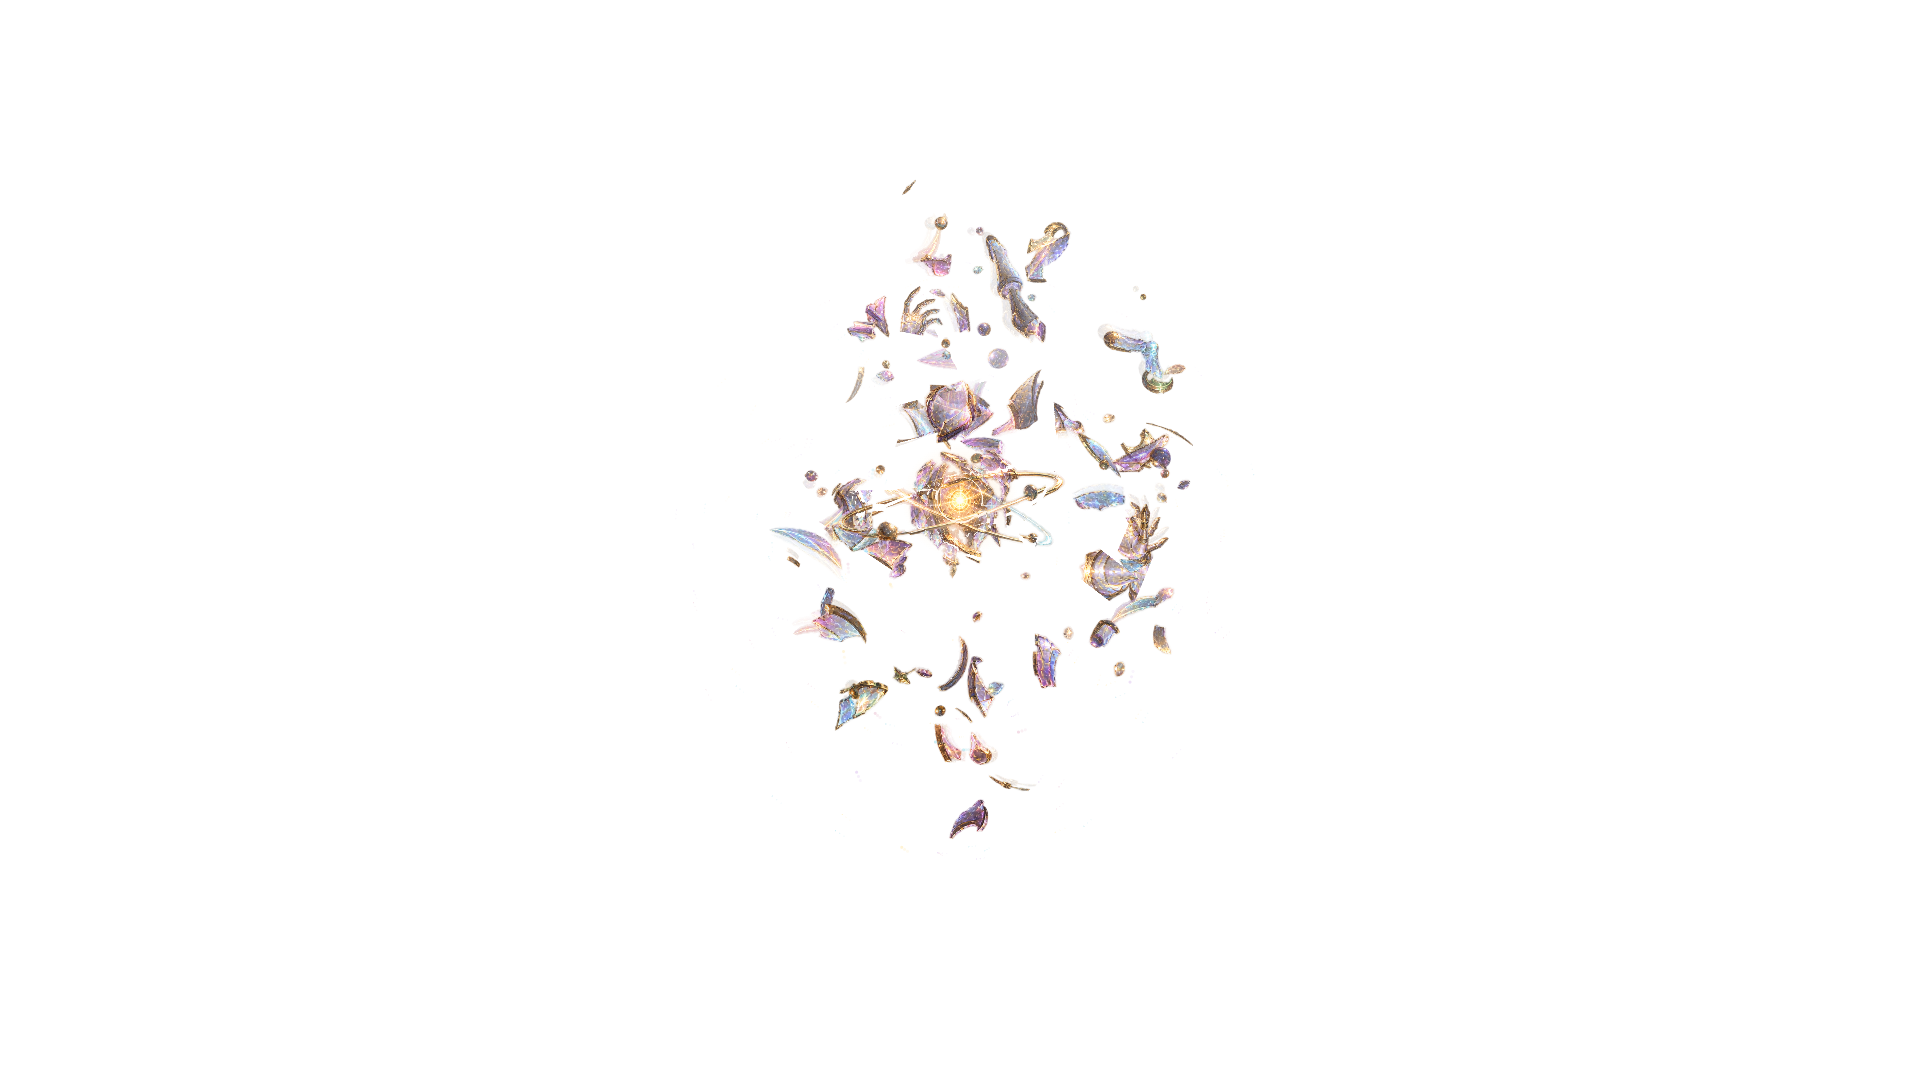
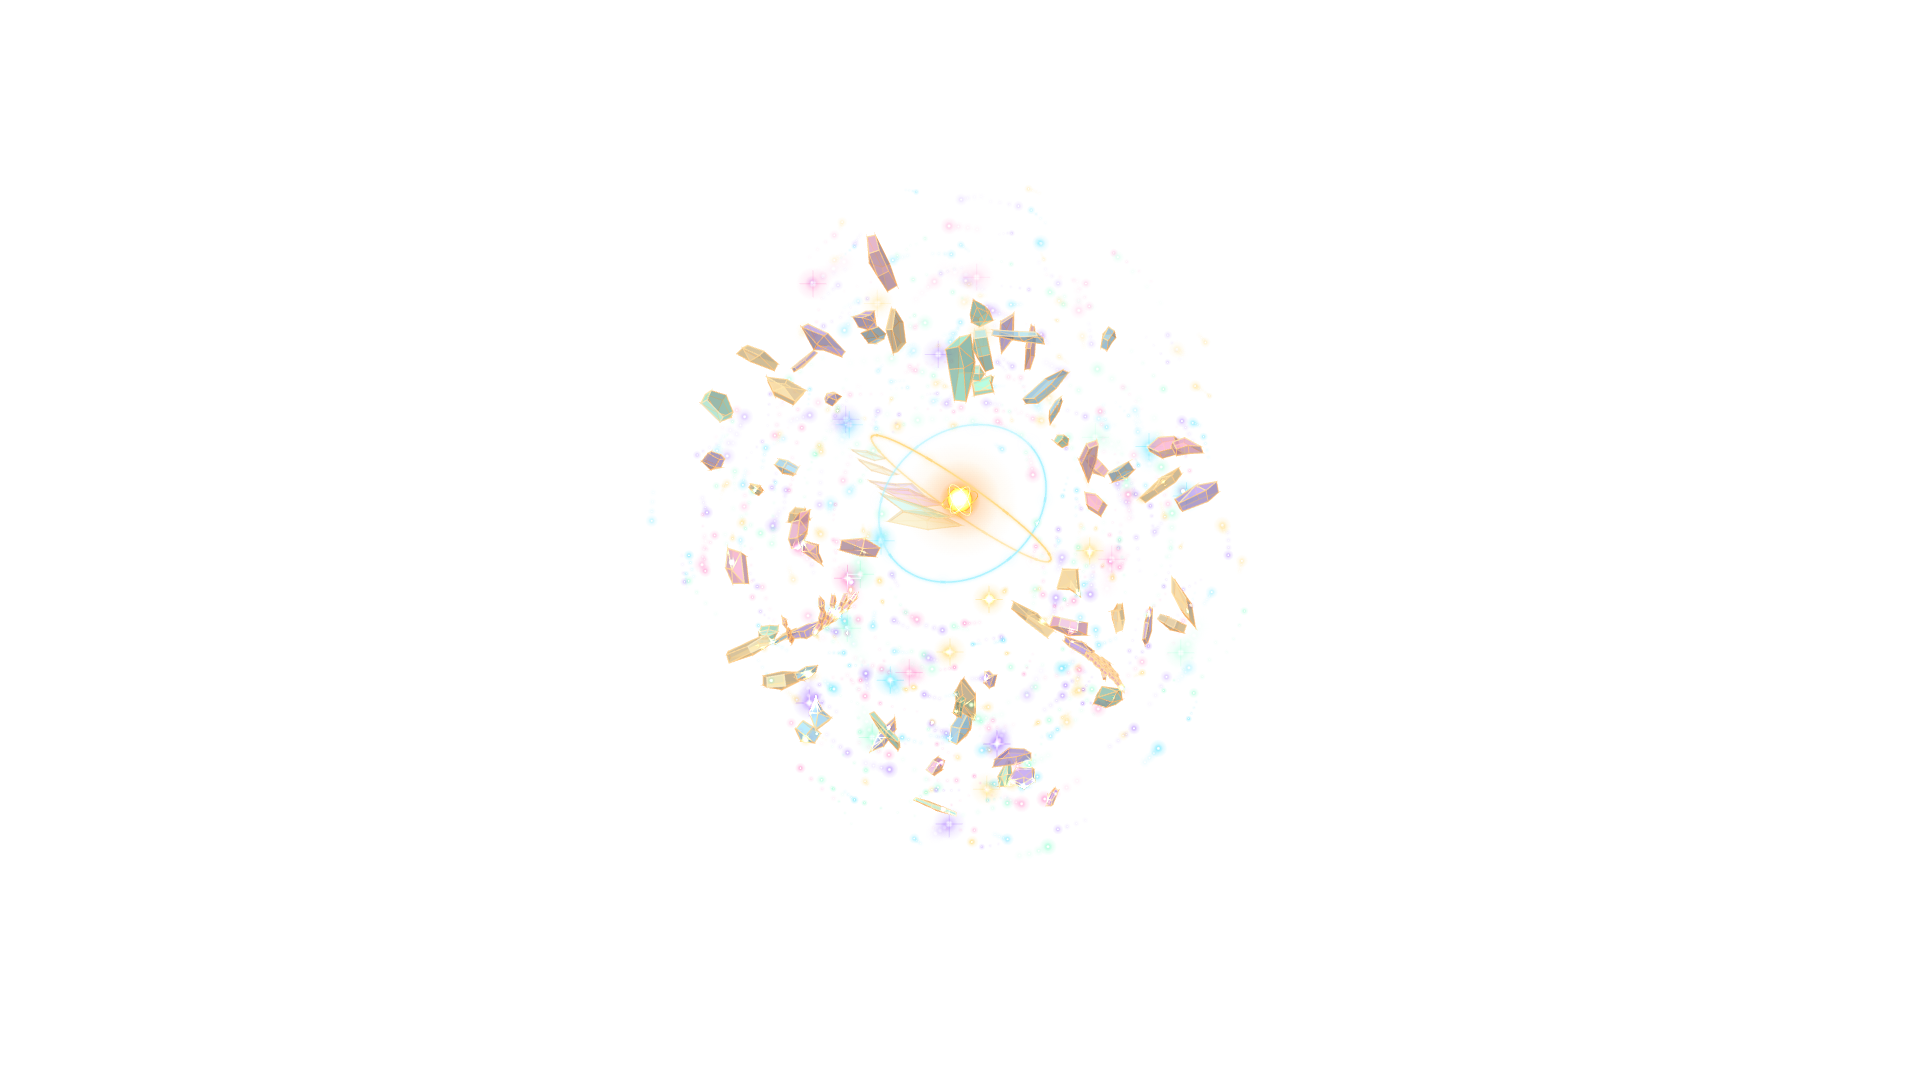
Animate independent volumetric Aru shards, hands, wings and rings

Changed region(s): [[0.3438, 0.1833, 0.6562, 0.7944]]

diff --git a/site/previews/aru/chamber/motion.js b/site/previews/aru/chamber/motion.js
@@ -1,48 +1,40 @@
+import {livingLayers,drawLivingLayer,drawLivingHeart} from './living-parts.js?v=1';
 const canvas=document.querySelector('#scene'),ctx=canvas.getContext('2d');
 const status=document.querySelector('#status'),play=document.querySelector('#play');
 const TAU=Math.PI*2,DURATION=12,W=1920,H=1080,CX=960,CY=500,SCALE=.40;
 let chamberMode=new URLSearchParams(location.search).get('view')==='chamber';
-let running=true,started=performance.now(),frozen=0,ready=false,parts=[];
+let running=true,started=performance.now(),frozen=0,ready=false;
 function loadImage(src){return new Promise((resolve,reject)=>{const i=new Image();i.onload=()=>resolve(i);i.onerror=reject;i.src=src;});}
-const [background,source,manifest]=await Promise.all([loadImage('chamber-background.png'),loadImage('../chapel-motion/aru-chapel-character.png'),fetch('../chapel-motion/parts.json').then(r=>{if(!r.ok)throw Error('Part masks unavailable');return r.json();})]);
-for(const [i,p] of manifest.parts.entries()){
- const [x,y,w,h]=p.bounds,sprite=document.createElement('canvas');sprite.width=w;sprite.height=h;const s=sprite.getContext('2d');
- s.beginPath();for(const [yy,xx,n] of p.runs)s.rect(xx,yy,n,1);s.clip();s.drawImage(source,x,y,w,h,0,0,w,h);
- const dx=p.center[0]-570,dy=p.center[1]-620;
- parts.push({...p,sprite,index:i,phase:Math.atan2(dy/1.35,dx),radius:Math.max(145,Math.hypot(dx,dy/1.35))*SCALE});
+const background=await loadImage('chamber-background.png');
+// Cached glow sprites keep hundreds of translucent lights inexpensive on phones.
+const particleColors=['#ffe6a3','#8cecff','#c5a4ff','#ffacd9','#b2ffde'];
+const glowSprites=particleColors.map(color=>{const sprite=document.createElement('canvas');sprite.width=sprite.height=64;const g=sprite.getContext('2d'),light=g.createRadialGradient(32,32,0,32,32,32);light.addColorStop(0,'#ffffff');light.addColorStop(.08,'#ffffff');light.addColorStop(.22,color);light.addColorStop(.5,color+'65');light.addColorStop(1,color+'00');g.fillStyle=light;g.fillRect(0,0,64,64);return sprite;});
+const particles=Array.from({length:480},(_,i)=>({
+ phase:i*2.399963, speed:(i%2?-1:1)*(1+i%5),
+ rx:65+(i*37%230),ry:90+(i*47%245),tilt:.32*Math.sin(i*1.7),
+ size:i%19===0?17:i%7===0?9:3.5+(i%4),color:i%5,seed:i
+}));
+function particlePose(p,a){const theta=p.phase+a*p.speed+.13*Math.sin(a*3+p.seed),breath=1+.055*Math.sin(a*2+p.seed),x=Math.cos(theta)*p.rx*breath,y=Math.sin(theta)*p.ry*breath;
+ return{x:CX+x*Math.cos(p.tilt)-y*Math.sin(p.tilt),y:CY+25+x*Math.sin(p.tilt)+y*Math.cos(p.tilt)+10*Math.sin(a*4+p.seed),z:Math.sin(theta)};
 }
-function pose(p,t){const a=t/DURATION*TAU,i=p.index,baseX=CX+(p.center[0]-570)*SCALE,baseY=CY+(p.center[1]-620)*SCALE;
- if(p.role==='orbit'){
-  const speed=i%4===0?-1:1,theta=p.phase+a*speed,r=p.radius*(1+.045*Math.sin(a*2+i));
-  const glitch=((Math.floor(t/DURATION*96)+i*7)%71)<2;
-  return {x:CX+Math.cos(theta)*r+(glitch?5:0),y:CY+45+Math.sin(theta)*r*1.35,z:Math.sin(theta),angle:a*(i%2?2:-2)+i*.23,alpha:glitch?.45:.72+.22*(Math.sin(theta)+1)/2,scale:1+.10*Math.sin(theta)};
+function drawDust(c,t,front){const a=t/DURATION*TAU;c.save();c.globalCompositeOperation='lighter';
+ for(const p of particles){const v=particlePose(p,a);if((v.z>0)!==front)continue;
+ const pulse=.55+.45*(.5+.5*Math.sin(a*(2+p.seed%4)+p.seed)),alpha=(.45+.4*(v.z+1)/2)*pulse;
+ // Trails follow each particle's own direction and angular speed.
+ for(let lag=3;lag>=0;lag--){const q=lag?particlePose(p,a-lag*.012):v,size=p.size*(lag? .65:1);c.globalAlpha=alpha/(1+lag*1.7);c.drawImage(glowSprites[p.color],q.x-size,q.y-size,size*2,size*2);}
+ if(p.seed%19===0){c.globalAlpha=alpha*.65;c.strokeStyle=particleColors[p.color];c.lineWidth=1;c.beginPath();c.moveTo(v.x-p.size*.8,v.y);c.lineTo(v.x+p.size*.8,v.y);c.moveTo(v.x,v.y-p.size*.8);c.lineTo(v.x,v.y+p.size*.8);c.stroke();}
  }
- if(p.role==='head')return{x:baseX+Math.sin(a),y:baseY+Math.cos(a),z:0,angle:a,alpha:.92,scale:1};
- if(p.role==='wing'){
-  const pattern=[.35,2.1,4.7,7.2,9.6,11.2],wi=parts.filter(q=>q.role==='wing').findIndex(q=>q.id===p.id);
-  let alpha=0;for(let b=0;b<pattern.length;b++){let dt=t-pattern[b]-.10*(wi%2);if(dt>=0&&dt<.28&&((b+wi)%3!==0))alpha=Math.max(alpha,.75*(1-dt/.28));}
-  return{x:baseX+Math.sin(a),y:baseY+Math.cos(a),z:0,angle:.018*Math.sin(a+i),alpha,scale:1};
- }
- if(p.role==='ring')return{x:baseX+Math.sin(a),y:baseY+Math.cos(a),z:0,angle:.055*Math.sin(a+i),alpha:.85,scale:1};
- if(p.role==='heart')return{x:baseX+Math.sin(a),y:baseY+Math.cos(a),z:0,angle:.012*Math.sin(a),alpha:.90+.1*Math.sin(a*3),scale:1+.045*Math.sin(a*3)};
- return{x:baseX+Math.sin(a),y:baseY+Math.cos(a),z:0,angle:.025*Math.sin(a+i),alpha:((Math.floor(t*8)+i*9)%47<2)?.13:.77,scale:1};
-}
-function drawPart(c,p,v,mult=1){if(v.alpha<.01)return;c.save();c.globalAlpha=v.alpha*mult;c.translate(v.x,v.y);c.rotate(v.angle);c.scale(SCALE*v.scale,SCALE*v.scale);c.drawImage(p.sprite,-p.sprite.width/2,-p.sprite.height/2);c.restore();}
-function drawDust(c,t,front){const a=t/DURATION*TAU;const colors=['#ffe6a3','#99dce9','#d5b5eb','#e8b8cc'];
- for(let i=0;i<150;i++){const angle=a*(i%5?1:-1)+i*2.39996,z=Math.sin(angle);if((z>0)!==front)continue;const rx=80+(i*37%235),ry=100+(i*47%245);c.fillStyle=colors[i%4];for(let lag=2;lag>=0;lag--){const v=angle-lag*.018;c.globalAlpha=(.16+.32*(z+1)/2)/(lag+1);c.beginPath();c.arc(CX+Math.cos(v)*rx,CY+35+Math.sin(v)*ry,i%13===0?1.5:.65,0,TAU);c.fill();}}
- c.globalAlpha=1;
+ c.restore();
 }
 export function paint(target,t,width=1280,height=720){t=((t%DURATION)+DURATION)%DURATION;target.save();target.setTransform(width/W,0,0,height/H,0,0);target.clearRect(0,0,W,H);if(chamberMode)target.drawImage(background,0,0,W,H);
  const a=t/DURATION*TAU;if(chamberMode){target.save();target.translate(CX,895);target.scale(1,.13);let floor=target.createRadialGradient(0,0,0,0,0,110);floor.addColorStop(0,'rgba(255,195,91,.18)');floor.addColorStop(.5,'rgba(105,206,234,.06)');floor.addColorStop(1,'rgba(255,195,91,0)');target.fillStyle=floor;target.fillRect(-112,-112,224,224);target.restore();}
  target.save();if(chamberMode){target.translate(CX,CY);target.scale(.78,.78);target.translate(-CX,-CY);}
- const orbit=parts.filter(p=>p.role==='orbit').map(p=>({p,v:pose(p,t)})).sort((a,b)=>a.v.z-b.v.z);
+ const layers=livingLayers(t);
  drawDust(target,t,false);
- const drawMoving=o=>{if(o.p.index%3===0){let lag=pose(o.p,(t-.07+DURATION)%DURATION);drawPart(target,o.p,lag,.16);}drawPart(target,o.p,o.v);};
- orbit.filter(o=>o.v.z<0).forEach(drawMoving);
- for(const p of parts.filter(p=>!['orbit','heart'].includes(p.role)))drawPart(target,p,pose(p,t));
+ for(const layer of layers)if(layer.z<0)drawLivingLayer(target,layer);
  let light=target.createRadialGradient(CX,CY,0,CX,CY,58);light.addColorStop(0,'rgba(255,225,150,.38)');light.addColorStop(.35,'rgba(255,176,65,.13)');light.addColorStop(1,'rgba(255,176,65,0)');target.fillStyle=light;target.fillRect(CX-60,CY-60,120,120);
- for(const p of parts.filter(p=>p.role==='heart'))drawPart(target,p,pose(p,t));
- orbit.filter(o=>o.v.z>=0).forEach(drawMoving);drawDust(target,t,true);
+ drawLivingHeart(target,t);
+ for(const layer of layers)if(layer.z>=0)drawLivingLayer(target,layer);drawDust(target,t,true);
  target.restore();
  // Reflections sit IN FRONT of Aru so the character reads as inside the glass.
  if(chamberMode){target.save();target.globalCompositeOperation='screen';
@@ -52,7 +44,7 @@ export function paint(target,t,width=1280,height=720){t=((t%DURATION)+DURATION)%
 }
 function time(){return running?((performance.now()-started)/1000)%DURATION:frozen;}
 function tick(){if(ready&&running)paint(ctx,time(),canvas.width,canvas.height);requestAnimationFrame(tick);}
-ready=true;status.textContent=`${parts.length} separate layers · 12-second loop`;play.disabled=false;document.querySelector('#still').disabled=false;paint(ctx,0,canvas.width,canvas.height);tick();
+ready=true;status.textContent='Independent 3D shards · moving heart rings · articulated hands · 8 flickering wings · 480 lights';play.disabled=false;document.querySelector('#still').disabled=false;paint(ctx,0,canvas.width,canvas.height);tick();
 play.onclick=()=>{if(running){frozen=time();running=false;}else{started=performance.now()-frozen*1000;running=true;}play.textContent=running?'Pause animation':'Play animation';};
 function download(blob,name){const a=document.createElement('a');a.href=URL.createObjectURL(blob);a.download=name;a.click();setTimeout(()=>URL.revokeObjectURL(a.href),60000);}
 document.querySelector('#still').onclick=()=>{const c=document.createElement('canvas');c.width=1920;c.height=1080;paint(c.getContext('2d'),time(),1920,1080);c.toBlob(blob=>download(blob,chamberMode?'aru-inside-chamber.png':'aru-transparent-frame.png'),'image/png');};

diff --git a/site/previews/aru/chamber/living-parts.js b/site/previews/aru/chamber/living-parts.js
@@ -1,0 +1,46 @@
+// Independent volumetric parts. No fragment is cropped from the character image.
+const TAU=Math.PI*2;
+const colors=[[164,222,255],[207,174,255],[255,181,214],[173,255,224],[255,221,159]];
+const outlines=[[[0,-1],[.68,-.42],[.42,.42],[-.25,1],[-.68,.13]],[[.3,-1],[.75,-.6],[.45,.3],[-.65,1],[-.28,-.2]],[[0,-1],[.7,-.2],[.45,.8],[-.55,.5],[-.75,-.4]],[[.45,-1],[.7,.1],[0,1],[-.28,.1],[-.72,-.45]]];
+const frac=x=>x-Math.floor(x),rand=(seed,n)=>frac(Math.sin(seed*127.1+n*311.7)*43758.5453);
+function rotate(v,r){let [x,y,z]=v;let c=Math.cos(r[0]),s=Math.sin(r[0]);[y,z]=[y*c-z*s,y*s+z*c];c=Math.cos(r[1]);s=Math.sin(r[1]);[x,z]=[x*c+z*s,-x*s+z*c];c=Math.cos(r[2]);s=Math.sin(r[2]);return[x*c-y*s,x*s+y*c,z];}
+function add(a,b){return a.map((v,i)=>v+b[i]);}
+function makeShard(seed,length,width,depth){const shape=outlines[seed%outlines.length],n=shape.length;const vertices=shape.map(([x,y],i)=>[x*width*(.8+rand(seed,i)*.4),y*length/2,depth*(.35+rand(seed,i+9)*.2)]);vertices.push(...vertices.map(([x,y,z])=>[x*.86,y*.94,-z]));vertices.push([width*.08,-length*.07,depth*.95]);const faces=[];for(let i=0;i<n;i++){faces.push([i,(i+1)%n,n*2]);faces.push([i,n+i,n+(i+1)%n,(i+1)%n]);}faces.push(Array.from({length:n},(_,i)=>n+i).reverse());return{vertices,faces,color:colors[seed%colors.length]};}
+const shards=Array.from({length:62},(_,i)=>({mesh:makeShard(i+1,12+rand(i,2)*48,5+rand(i,3)*18,3+rand(i,4)*10),phase:i*2.399963,speed:(i%2?-1:1)*(1+i%3),radius:100+rand(i,5)*165,height:140+rand(i,6)*165,seed:i}));
+const featherMeshes=Array.from({length:8},(_,i)=>Array.from({length:7},(_,j)=>makeShard(100+i*7+j,38+j*8,7+j*1.1,3)));
+const palm=makeShard(91,40,22,7),finger=makeShard(92,17,5,4),forearm=makeShard(94,65,18,9);
+const head=makeShard(103,70,31,16);
+function normal(vertices,face){const a=vertices[face[0]],b=vertices[face[1]],c=vertices[face[2]],u=b.map((v,i)=>v-a[i]),v=c.map((x,i)=>x-a[i]);const n=[u[1]*v[2]-u[2]*v[1],u[2]*v[0]-u[0]*v[2],u[0]*v[1]-u[1]*v[0]],m=Math.hypot(...n)||1;return n.map(x=>x/m);}
+function meshItem(mesh,center,rotation,alpha=1,scale=1){return{mesh,center,rotation,alpha,scale,z:center[2]};}
+function drawMesh(c,item){const {mesh,center,rotation,alpha,scale}=item,vertices=mesh.vertices.map(v=>add((item.parentRotation?rotate(rotate(v.map(x=>x*scale),rotation),item.parentRotation):rotate(v.map(x=>x*scale),rotation)),center)),project=v=>{const k=900/(900-v[2]);return[960+v[0]*k,500+v[1]*k];};
+ const faces=mesh.faces.map(f=>({f,z:f.reduce((sum,i)=>sum+vertices[i][2],0)/f.length})).sort((a,b)=>a.z-b.z);
+ c.save();for(const {f}of faces){const n=normal(vertices,f),light=Math.abs(n[0]*-.35+n[1]*-.6+n[2]*.72),shine=Math.pow(Math.max(0,n[2]*.9-n[1]*.3),12),rgb=mesh.color.map(v=>Math.min(255,Math.round(v*(.35+.65*light)+shine*100)));c.beginPath();for(let j=0;j<f.length;j++){const p=project(vertices[f[j]]);j?c.lineTo(...p):c.moveTo(...p);}c.closePath();c.fillStyle=`rgba(${rgb.join(',')},${alpha*(.38+.35*light)})`;c.fill();c.strokeStyle=`rgba(255,${Math.round(166+light*72)},${Math.round(88+light*95)},${alpha*.85})`;c.lineWidth=.7+light*.65;c.stroke();if(shine>.3){c.strokeStyle=`rgba(235,251,255,${alpha*shine*.8})`;c.lineWidth=1.4;c.stroke();}}
+ c.restore();
+}
+function handItems(t,side){const a=t/12*TAU,root=[side*(125+25*Math.sin(a*2+side)),120+35*Math.sin(a+side),40*Math.sin(a*2+side)],rotation=[a*(side===1?1:-2)+.4,a*(side===1?-2:1),side*.6+.35*Math.sin(a*3)],out=[];
+ const place=(mesh,local,r,scale=1)=>out.push({...meshItem(mesh,add(root,rotate(local,rotation)),r,.9,scale),parentRotation:rotation});
+ place(palm,[0,0,0],[0,0,0]);place(forearm,[0,70,0],[.15*Math.sin(a*2),0,0]);
+ // Each digit has three independently positioned phalanges; curl changes their joint angles.
+ for(let f=0;f<5;f++){const thumb=f===0,base=[thumb?-24:-15+(f-1)*10,thumb?0:-20,0],spread=(f-2)*.13+(thumb?-.65:0),curl=.15+(.5+.5*Math.sin(a*(side===1?2:3)+f*.3+side))*1.55;let joint=base;
+  for(let j=0;j<3;j++){const bend=curl*(.5+j*.33),dir=rotate([0,-(thumb?11:15-j*2),0],[bend,0,spread]),mid=joint.map((x,k)=>x+dir[k]/2);place(finger,mid,[bend,0,spread],thumb?.66:1-j*.1);joint=add(joint,dir);}
+ }
+ return out;
+}
+function wingItems(t){const a=t/12*TAU,out=[];for(let w=0;w<8;w++){
+ const cycle=(t+(w*1.713))%[3,4,2,6][w%4],burst=cycle<.46?Math.sin(cycle/.46*Math.PI):0;if(!burst)continue;
+ const direction=w*TAU/8+.2,extent=135,root=[Math.cos(direction)*extent,Math.sin(direction)*extent, -60],rotation=[.35*Math.sin(a*2+w),.5*Math.sin(a+w),direction+Math.PI/2];
+ for(let j=0;j<7;j++){if((Math.floor(t*13)+w+j)%7===0)continue;const offset=rotate([(j-3)*11,-28-j*13,8*Math.sin(a*3+j)],rotation),breakoff=j>3?1+.07*Math.sin(a*4+j):1;out.push(meshItem(featherMeshes[w][j],add(root,offset.map(x=>x*breakoff)),rotation.map((v,k)=>v+(j>3?.08*Math.sin(a*3+j+k):0)),burst*(.33+j*.055)));}
+ }return out;
+}
+function ringSegments(t){const a=t/12*TAU,out=[];for(let ring=0;ring<2;ring++){
+ const rotation=[.55+a*(ring? -1:1),a*(ring?2:-1)+.8,ring?-.65:.55],radius=ring?89:108;
+ for(let j=0;j<96;j++){const points=[j,j+1].map(k=>rotate([Math.cos(k*TAU/96)*radius,Math.sin(k*TAU/96)*radius,0],rotation));out.push({ring:true,points,z:(points[0][2]+points[1][2])/2,color:ring?'#aaf2ff':'#ffda86',bright:j%12===0});}
+ }return out;
+}
+export function livingLayers(t){const a=t/12*TAU,items=shards.map(p=>{const angle=p.phase+a*p.speed+.13*Math.sin(a*3+p.seed);return meshItem(p.mesh,[Math.cos(angle)*p.radius,25+Math.sin(angle)*p.height,55*Math.sin(angle+p.seed*.3)],[a*(1+p.seed%3),a*(p.seed%2?-2:3)+p.phase,a*(p.seed%3-1)+p.phase],.85);});
+ items.push(...handItems(t,-1),...handItems(t,1),...wingItems(t),meshItem(head,[0,-135+2*Math.sin(a),0],[.12*Math.sin(a*2),a,.08*Math.sin(a)],.9),...ringSegments(t));return items.sort((a,b)=>a.z-b.z);
+}
+export function drawLivingLayer(c,item){if(!item.ring){drawMesh(c,item);return;}c.save();const project=v=>[960+v[0]*900/(900-v[2]),500+v[1]*900/(900-v[2])];c.strokeStyle=item.color;c.globalAlpha=item.z<0?.52:.94;c.lineWidth=item.bright?2.6:1.5;c.shadowColor=item.color;c.shadowBlur=item.bright?8:3;c.beginPath();c.moveTo(...project(item.points[0]));c.lineTo(...project(item.points[1]));c.stroke();c.restore();}
+
+export function drawLivingHeart(c,t){const a=t/12*TAU,pulse=1+.07*Math.sin(a*3);c.save();c.translate(960,500);c.scale(pulse,pulse);c.globalCompositeOperation='lighter';const halo=c.createRadialGradient(0,0,0,0,0,42);halo.addColorStop(0,'rgba(255,243,193,.9)');halo.addColorStop(.22,'rgba(255,193,65,.7)');halo.addColorStop(.5,'rgba(255,134,45,.16)');halo.addColorStop(1,'rgba(255,155,35,0)');c.fillStyle=halo;c.fillRect(-42,-42,84,84);const core=c.createRadialGradient(-3,-4,1,0,0,13);core.addColorStop(0,'#ffffee');core.addColorStop(.3,'#fff5ac');core.addColorStop(.75,'#ffb938');core.addColorStop(1,'rgba(255,131,37,.1)');c.fillStyle=core;c.beginPath();c.arc(0,0,13,0,TAU);c.fill();
+ for(let k=0;k<5;k++){c.save();c.rotate(a*(k%2?1:-1)+k);c.strokeStyle=k%2?'rgba(255,248,203,.75)':'rgba(255,171,54,.65)';c.lineWidth=.8;c.beginPath();c.ellipse(0,0,15+k,5+k*.7,0,0,TAU);c.stroke();c.restore();}c.restore();}

diff --git a/site/previews/aru/chamber/index.html b/site/previews/aru/chamber/index.html
@@ -1,1 +1,1 @@
-<!doctype html><html lang="en"><meta charset="utf-8"><meta name="viewport" content="width=device-width,initial-scale=1"><title>Aru · Transparent animation & blue chamber</title><style>body{margin:0;background:#101419;color:#eee4d7;font:17px/1.6 system-ui}main{max-width:1280px;margin:auto;padding:20px}h1{font-size:clamp(25px,4vw,40px);margin-bottom:8px}canvas{width:100%;height:auto;border-radius:12px;background:transparent}.transparent{background-color:#171c25;background-image:linear-gradient(45deg,#252b36 25%,transparent 25%),linear-gradient(-45deg,#252b36 25%,transparent 25%),linear-gradient(45deg,transparent 75%,#252b36 75%),linear-gradient(-45deg,transparent 75%,#252b36 75%);background-size:32px 32px;background-position:0 0,0 16px,16px -16px,-16px 0}nav,.controls{display:flex;gap:12px;flex-wrap:wrap;margin:16px 0}a{color:#a8e0eb}button{background:#26333c;color:#eee;border:1px solid #657b86;border-radius:8px;padding:12px;font:inherit;cursor:pointer}button[aria-pressed=true]{background:#326073;border-color:#b6f0ff}p{max-width:850px}.muted{color:#b8bdc3}</style><main><nav><a href="../../../wiki.html#topic-759f5b852086">The chapel’s lore</a><a href="../../../wiki.html#topic-19f4c798b156">Aru’s profile</a></nav><h1>Aru · fragments around a heart</h1><div class="controls" aria-label="Background"><button data-view="alone" aria-pressed="true">Aru alone</button><button data-view="chamber" aria-pressed="false">Inside the blue chamber</button></div><p id="view-label">Aru alone · transparent background</p><canvas id="scene" width="1280" height="720" role="img" aria-label="Animated Aru with rotating fragments, a slowly turning head, a pulsing heart and flickering wing remnants."></canvas><div class="controls"><button id="play" disabled>Pause animation</button><button id="still" disabled>Save this frame as PNG</button></div><p id="status" aria-live="polite">Loading Aru…</p><p>The checkerboard is only a viewing guide. Frames saved from “Aru alone” have a transparent background. Switch views to see Aru inside the blue glass chamber, surrounded by maintenance platforms.</p><nav><a href="../chapel-motion/aru-chapel-character.png">Original transparent artwork</a><a href="chamber-background.png">Chamber background without Aru</a><a href="../story-stages/">Recorded story forms</a></nav><p class="muted">Undated visual concept. The close-up platforms and chamber view are an artistic interpretation of the chapel image, not new written lore.</p></main><script type="module" src="motion.js"></script></html>
+<!doctype html><html lang="en"><meta charset="utf-8"><meta name="viewport" content="width=device-width,initial-scale=1"><title>Aru · Transparent animation & blue chamber</title><style>body{margin:0;background:#101419;color:#eee4d7;font:17px/1.6 system-ui}main{max-width:1280px;margin:auto;padding:20px}h1{font-size:clamp(25px,4vw,40px);margin-bottom:8px}canvas{width:100%;height:auto;border-radius:12px;background:transparent}.transparent{background-color:#171c25;background-image:linear-gradient(45deg,#252b36 25%,transparent 25%),linear-gradient(-45deg,#252b36 25%,transparent 25%),linear-gradient(45deg,transparent 75%,#252b36 75%),linear-gradient(-45deg,transparent 75%,#252b36 75%);background-size:32px 32px;background-position:0 0,0 16px,16px -16px,-16px 0}nav,.controls{display:flex;gap:12px;flex-wrap:wrap;margin:16px 0}a{color:#a8e0eb}button{background:#26333c;color:#eee;border:1px solid #657b86;border-radius:8px;padding:12px;font:inherit;cursor:pointer}button[aria-pressed=true]{background:#326073;border-color:#b6f0ff}p{max-width:850px}.muted{color:#b8bdc3}</style><main><nav><a href="../../../wiki.html#topic-759f5b852086">The chapel’s lore</a><a href="../../../wiki.html#topic-19f4c798b156">Aru’s profile</a></nav><h1>Aru · fragments around a heart</h1><div class="controls" aria-label="Background"><button data-view="alone" aria-pressed="true">Aru alone</button><button data-view="chamber" aria-pressed="false">Inside the blue chamber</button></div><p id="view-label">Aru alone · transparent background</p><canvas id="scene" width="1280" height="720" role="img" aria-label="Animated Aru with rotating fragments, a slowly turning head, a pulsing heart and flickering wing remnants."></canvas><div class="controls"><button id="play" disabled>Pause animation</button><button id="still" disabled>Save this frame as PNG</button></div><p id="status" aria-live="polite">Loading Aru…</p><p>Individual glass shards tumble on different axes. Two heart rings rotate independently, hands open and curl, and eight broken wings flicker separately. 480 glowing particles swirl at different speeds and in opposing directions. The checkerboard is only a viewing guide. Frames saved from “Aru alone” have a transparent background. Switch views to see Aru inside the blue glass chamber, surrounded by maintenance platforms.</p><nav><a href="../chapel-motion/aru-chapel-character.png">Original transparent artwork</a><a href="chamber-background.png">Chamber background without Aru</a><a href="../story-stages/">Recorded story forms</a></nav><p class="muted">Undated visual concept. The close-up platforms and chamber view are an artistic interpretation of the chapel image, not new written lore.</p></main><script type="module" src="motion.js?v=living-layers-1"></script></html>
